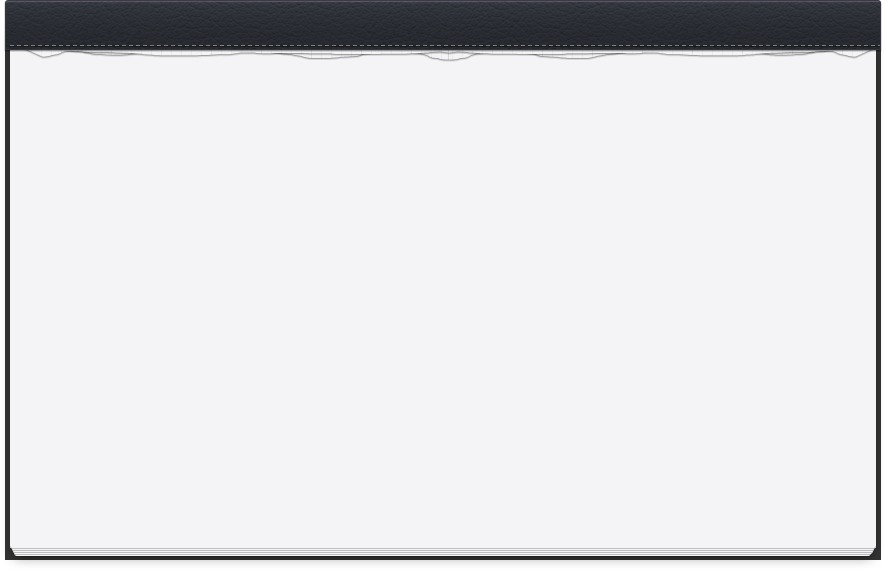
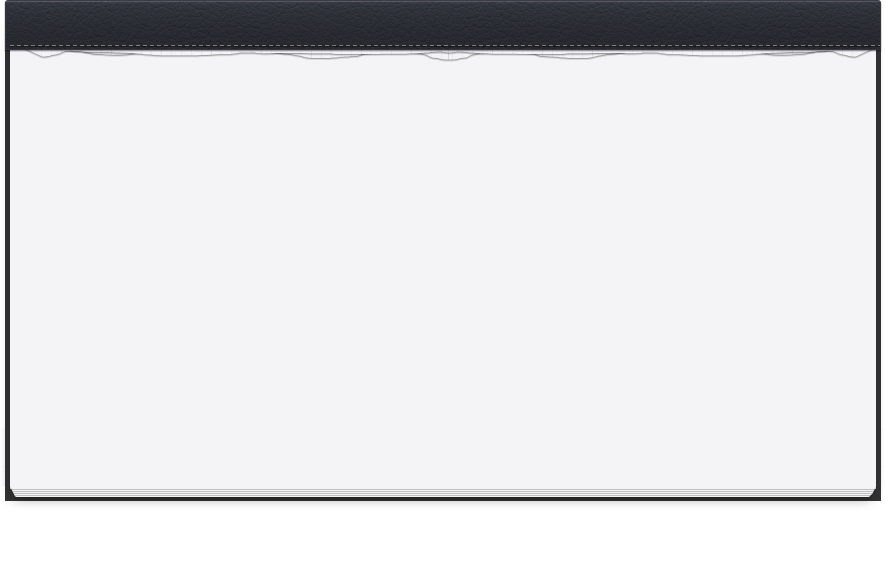
fix

Changed region(s): [[0.0, 0.8351, 1.0, 1.0]]

diff --git a/newdesign/css/screen.css b/newdesign/css/screen.css
@@ -177,31 +177,26 @@ body.bg2 {
     margin: 44px auto 10px auto;
     background: url(../img/frame-1.png) no-repeat center;
     height: 519px;
-    max-width: 889px; }
+    max-width: 889px;
+    z-index: 10;
+    box-sizing: border-box;
+    padding-left: 9px;
+    padding-right: 9px;
+    padding-top: 40px; }
     @media (max-width: 768px) {
       .page-header .frame-1 {
         width: 100%;
-        height: 330px;
+        height: auto;
         border: 2px solid #333333;
         background: none; } }
     .page-header .frame-1 iframe {
-      position: absolute;
-      width: 872px;
-      height: 501px;
-      left: 9px;
-      top: 20px; 
+      margin-top: -40px;
       z-index: 10; }
-      @media (max-width: 768px) {
-        .page-header .frame-1 iframe {
-          width: 100%;
-          height: 100%;
-          left: 0;
-          top: 0; } }
     .page-header .frame-1 span.icon-pencil {
       position: absolute;
       top: 53px;
       left: -39px;
-      z-index: 11; }
+      z-index: 11000; }
       @media (max-width: 768px) {
         .page-header .frame-1 span.icon-pencil {
           left: 0;
@@ -210,7 +205,7 @@ body.bg2 {
       position: absolute;
       top: 189px;
       right: -40px;
-      z-index: 11; }
+      z-index: 1100; }
       @media (max-width: 768px) {
         .page-header .frame-1 span.icon-eraser {
           right: 0;
@@ -223,21 +218,9 @@ body.bg2 {
       @media (max-width: 768px) {
         .page-header .frame-1.frame-2 {
           width: 100%;
-          height: 330px;
+          height: auto;
           border: 2px solid #333333;
           background: none; } }
-      .page-header .frame-1.frame-2 iframe {
-        width: 866px;
-        height: 497px;
-        left: 10px;
-        top: 50px;
-        z-index: 10; }
-        @media (max-width: 768px) {
-          .page-header .frame-1.frame-2 iframe {
-            width: 100%;
-            height: 100%;
-            left: 0;
-            top: 0; } }
     .page-header .frame-1.frame-3 {
       margin: 32px auto 0px auto;
       background: transparent;
@@ -265,18 +248,6 @@ body.bg2 {
         @media (max-width: 768px) {
           .page-header .frame-1.frame-3 span.icon-top-sticker {
             display: none; } }
-      .page-header .frame-1.frame-3 iframe {
-        background: #ffffff;
-        width: 864px;
-        height: 489px;
-        left: 17px;
-        top: 17px; }
-        @media (max-width: 768px) {
-          .page-header .frame-1.frame-3 iframe {
-            width: 100%;
-            height: 100%;
-            left: 0;
-            top: 0; } }
 
 .white-wrap {
   background: #eceeed;

diff --git a/newdesign/index_simpler.html b/newdesign/index_simpler.html
@@ -15,6 +15,7 @@
   </head>
   <body class="bg1">
   <!-- home, home4, home5,  -->
+<!-- 4:3 aspect ratio -->
   
   <div class="icon-top-right-ribbon"></div><!-- /.top-right-ribbon -->  
   <div class="page-header">
@@ -23,7 +24,11 @@
         <div class="frame-1">
           <span class="icon-eraser"></span>
           <span class="icon-pencil"></span> 
-              <iframe src="http://www.youtube.com/embed/YhelchLS79U?theme=light&amp;rel=0&amp;autohide=1&amp;theme=light&amp;showsearch=0&amp;version=3&amp;showinfo=0&amp;modestbranding=1&amp;autoplay=1&amp;wmode=opaque&amp;controls=0&amp;howinfo=0&amp;yt:crop=16:9" frameborder="0" allowTransparency="true"></iframe>   
+
+          <div class="embed-responsive embed-responsive-16by9">
+            <iframe class="embed-responsive-item" src="http://www.youtube.com/embed/YhelchLS79U?rel=0&amp;autohide=1&amp;theme=light&amp;showsearch=0&amp;version=3&amp;sho1winfo=0&amp;modestbranding=1&amp;title=''&amp;autoplay=1&amp;wmode=opaque&amp;controls=0&amp;howinfo=0&amp;yt:crop=16:9"></iframe>
+          </div>
+
         </div><!-- /.wrap -->  
     </div><!-- /.container -->  
   </div><!-- /.page-header -->  

diff --git a/newdesign/indexv4.html b/newdesign/indexv4.html
@@ -21,9 +21,14 @@
     <div class="container">
       <h1 class="top">Verlies Tot Wel 9,6 Kilo Vet ledere 28 Dagen, Zonder Honger Te Lijden, Te Jojoen Of Jezelf Te Ontzeggen Van Lekken Eten</h1>
         <div class="frame-1 frame-2">
+          
           <span class="icon-eraser"></span>
           <span class="icon-pencil"></span> 
-          <iframe src="http://www.youtube.com/embed/YhelchLS79U?theme=light&amp;rel=0&amp;autohide=1&amp;theme=light&amp;showsearch=0&amp;version=3&amp;showinfo=0&amp;modestbranding=1&amp;autoplay=1&amp;wmode=opaque&amp;controls=0&amp;howinfo=0&amp;yt:crop=16:9" frameborder="0" allowTransparency="true"></iframe>  
+          
+          <div class="embed-responsive embed-responsive-16by9">
+            <iframe class="embed-responsive-item" src="http://www.youtube.com/embed/YhelchLS79U?rel=0&amp;autohide=1&amp;theme=light&amp;showsearch=0&amp;version=3&amp;sho1winfo=0&amp;modestbranding=1&amp;title=''&amp;autoplay=1&amp;wmode=opaque&amp;controls=0&amp;howinfo=0&amp;yt:crop=16:9"></iframe>
+          </div>
+  
         </div><!-- /.wrap -->  
     </div><!-- /.container -->  
   </div><!-- /.page-header -->  

diff --git a/newdesign/indexv5.html b/newdesign/indexv5.html
@@ -25,7 +25,11 @@
             <div class="frame-1 frame-3">
               <span class="icon-bottom-sticker"></span>
               <span class="icon-top-sticker"></span>
-              <iframe src="http://www.youtube.com/embed/YhelchLS79U?theme=light&amp;rel=0&amp;autohide=1&amp;theme=light&amp;showsearch=0&amp;version=3&amp;showinfo=0&amp;modestbranding=1&amp;autoplay=1&amp;wmode=opaque&amp;controls=0&amp;howinfo=0&amp;yt:crop=16:9" frameborder="0" allowTransparency="true"></iframe>  
+    
+              <div class="embed-responsive embed-responsive-16by9">
+                <iframe class="embed-responsive-item" src="http://www.youtube.com/embed/YhelchLS79U?rel=0&amp;autohide=1&amp;theme=light&amp;showsearch=0&amp;version=3&amp;sho1winfo=0&amp;modestbranding=1&amp;title=''&amp;autoplay=1&amp;wmode=opaque&amp;controls=0&amp;howinfo=0&amp;yt:crop=16:9"></iframe>
+              </div>
+
             </div><!-- /.wrap -->
             <div class="btn-holder whiter">
               <div class="container">

diff --git a/newdesign/indexv5_simpler.html b/newdesign/indexv5_simpler.html
@@ -25,7 +25,11 @@
             <div class="frame-1 frame-3">
               <span class="icon-bottom-sticker"></span>
               <span class="icon-top-sticker"></span>
-              <iframe src="http://www.youtube.com/embed/YhelchLS79U?theme=light&amp;rel=0&amp;autohide=1&amp;theme=light&amp;showsearch=0&amp;version=3&amp;showinfo=0&amp;modestbranding=1&amp;autoplay=1&amp;wmode=opaque&amp;controls=0&amp;howinfo=0&amp;yt:crop=16:9" frameborder="0" allowTransparency="true"></iframe>  
+
+              <div class="embed-responsive embed-responsive-16by9">
+                <iframe class="embed-responsive-item" src="http://www.youtube.com/embed/YhelchLS79U?rel=0&amp;autohide=1&amp;theme=light&amp;showsearch=0&amp;version=3&amp;sho1winfo=0&amp;modestbranding=1&amp;title=''&amp;autoplay=1&amp;wmode=opaque&amp;controls=0&amp;howinfo=0&amp;yt:crop=16:9"></iframe>
+              </div>
+
             </div><!-- /.wrap -->
             <div class="btn-holder whiter">
               <div class="container">

diff --git a/newdesign/indexv4_simpler.html b/newdesign/indexv4_simpler.html
@@ -23,7 +23,11 @@
         <div class="frame-1 frame-2">
           <span class="icon-eraser"></span>
           <span class="icon-pencil"></span> 
-          <iframe src="http://www.youtube.com/embed/YhelchLS79U?theme=light&amp;rel=0&amp;title=&amp;autohide=1&amp;theme=light&amp;showsearch=0&amp;version=3&amp;showinfo=0&amp;modestbranding=1&amp;autoplay=1&amp;wmode=opaque&amp;controls=0&amp;howinfo=0&amp;yt:crop=16:9" frameborder="0" allowTransparency="true"></iframe>  
+
+          <div class="embed-responsive embed-responsive-16by9">
+            <iframe class="embed-responsive-item" src="http://www.youtube.com/embed/YhelchLS79U?rel=0&amp;autohide=1&amp;theme=light&amp;showsearch=0&amp;version=3&amp;sho1winfo=0&amp;modestbranding=1&amp;title=''&amp;autoplay=1&amp;wmode=opaque&amp;controls=0&amp;howinfo=0&amp;yt:crop=16:9"></iframe>
+          </div>
+
         </div><!-- /.wrap -->  
     </div><!-- /.container -->  
   </div><!-- /.page-header -->  

diff --git a/newdesign/index.html b/newdesign/index.html
@@ -23,7 +23,11 @@
         <div class="frame-1">
           <span class="icon-eraser"></span>
           <span class="icon-pencil"></span> 
-          <iframe src="http://www.youtube.com/embed/YhelchLS79U?theme=light&amp;rel=0&amp;autohide=1&amp;theme=light&amp;showsearch=0&amp;version=3&amp;showinfo=0&amp;modestbranding=1&amp;autoplay=1&amp;wmode=opaque&amp;controls=0&amp;howinfo=0&amp;yt:crop=16:9" frameborder="0" allowTransparency="true"></iframe>  
+
+          <div class="embed-responsive embed-responsive-16by9">
+            <iframe class="embed-responsive-item" src="http://www.youtube.com/embed/YhelchLS79U?rel=0&amp;autohide=1&amp;theme=light&amp;showsearch=0&amp;version=3&amp;sho1winfo=0&amp;modestbranding=1&amp;title=''&amp;autoplay=1&amp;wmode=opaque&amp;controls=0&amp;howinfo=0&amp;yt:crop=16:9"></iframe>
+          </div>
+  
         </div><!-- /.wrap -->  
     </div><!-- /.container -->  
   </div><!-- /.page-header -->  

diff --git a/newdesign/css/bootstrap.css b/newdesign/css/bootstrap.css
@@ -6803,3 +6803,5 @@ td.visible-print {
     display: none !important;
   }
 }
+
+.embed-responsive{position:relative;display:block;height:0;padding:0;overflow:hidden}.embed-responsive .embed-responsive-item,.embed-responsive embed,.embed-responsive iframe,.embed-responsive object,.embed-responsive video{position:absolute;top:0;bottom:0;left:0;width:100%;height:100%;border:0}.embed-responsive.embed-responsive-16by9{padding-bottom:56.25%}.embed-responsive.embed-responsive-4by3{padding-bottom:75%}
